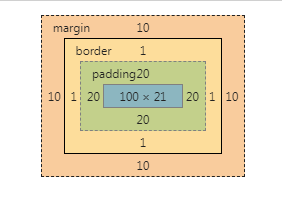
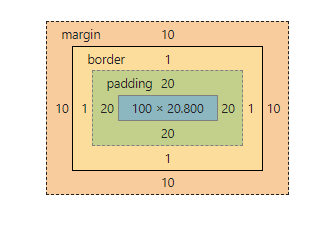
1

Changed region(s): [[0.1135, 0.0606, 0.8794, 0.9091], [0.0, 0.0, 1.0, 0.0303], [0.7092, 0.4242, 0.7376, 0.4545]]

diff --git a/css-note/盒模型.html b/css-note/盒模型.html
@@ -11,8 +11,6 @@
             padding:20px;
             border:1px solid #111;
             margin:10px;
-            box-sizing: border-box;
-            /* box-sizing: content-box; */
         }
         .up{
             height: 20px;
@@ -38,7 +36,7 @@
             注意浮动元素和绝对定位元素的外边距不会折叠。
         -->
         <div class='box'>
-            contentdsfaa asdfsafasdfasdfasdfa
+            content
         </div>
         <div class='up'>111</div>
         <div class='down'>222</div>
